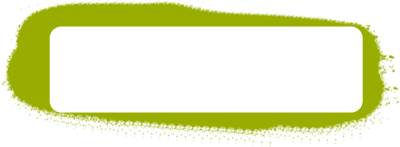
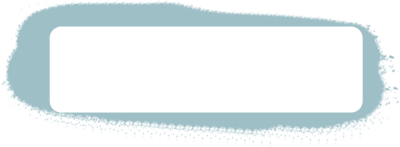
main menu botão preto e branco

Changed region(s): [[0.0, 0.0, 1.0, 0.9796], [0.81, 0.9524, 0.84, 0.9796]]

diff --git a/src/TitleState.cpp b/src/TitleState.cpp
@@ -37,9 +37,9 @@ TitleState::TitleState() {
     logoObj->box.X = Game::VirtualScreenWidth/2 - logoObj->box.W/2;
     logoObj->box.Y = 20;
     */
-    //SDL_Color buttonNone = {47,63,68,255};
+    SDL_Color buttonNone = {47,63,68,255};
     //SDL_Color buttonNone = {87, 46, 73, 255};
-    SDL_Color buttonNone = {148, 0, 92, 255};
+    //SDL_Color buttonNone = {148, 0, 92, 255};
     SDL_Color buttonHover = {158,191,198,255};
 
 
